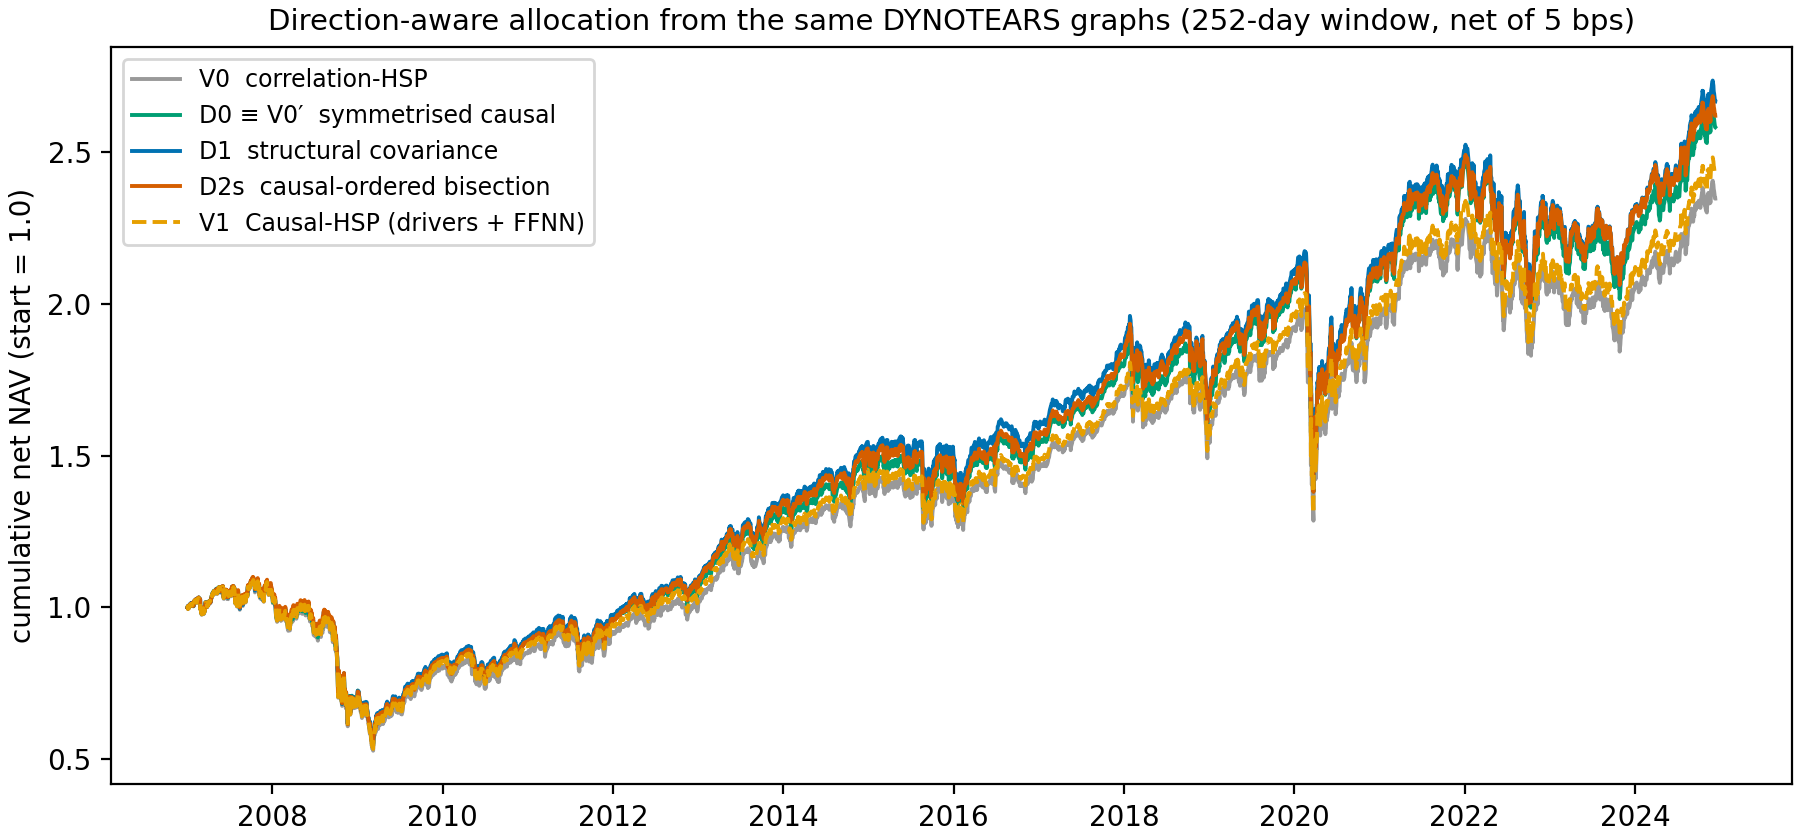
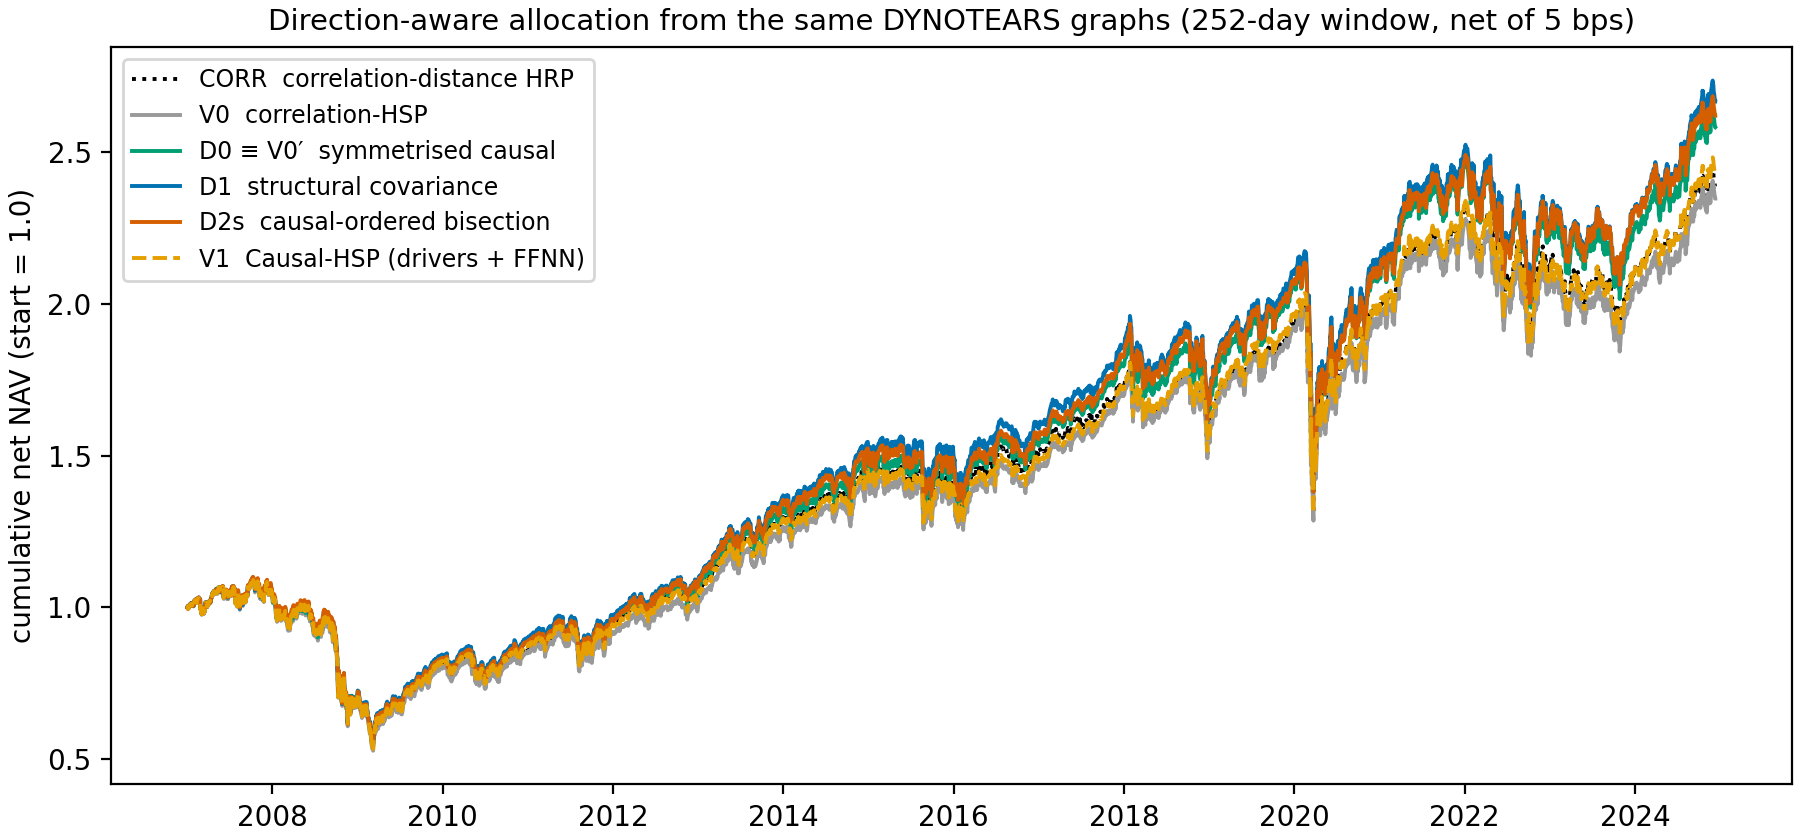
data(results): CORR-HRP cells + decomposition reading; FINDINGS addendum
CORR-HRP lands at net Sharpe 0.381 (w252) / 0.363 (w504) — notably, plain
correlation-distance HRP beats the cum-corr HSP baseline V0 (0.371), so
the earlier D0-V0 significance was substantially a verdict on V0's
driver/FFNN machinery rather than on the correlation matrix. Against the
honest control the decomposition reads: w252 skeleton +0.022 (p=0.14),
orientation +0.009 on top (p=0.47); w504 skeleton +0.009 (p=0.55),
orientation +0.023-0.027 (p=0.05-0.07); all 12 D-vs-CORR contrasts
positive, none individually significant, family-wise SPA p=0.123/0.094.
Refreshed contrasts/matrix/battery CSVs, regime tables with the CORR row,
the new decomposition figure, and the FINDINGS 1d addendum recording all
of it.

diff --git a/FINDINGS.md b/FINDINGS.md
@@ -377,10 +377,33 @@ byte-identical), and D0/D1/D2s all sit *above the seed-cloud maximum*
 under any seed (`results/seed_audit.csv`,
 `results/figures/phase_ii_seed.png`).
 
+**Addendum (2026-07-13) — the CORR-HRP control and the decomposition
+reading.** For the final report's master question ("how much of the causal
+graph's gain over the correlation matrix is skeleton vs edge orientation?")
+the like-for-like control is plain correlation-distance HRP (`CORR`,
+`corr_hrp_weights`: distance √(½(1−ρ)), same allocator, graph-blind;
+pre-registered as an optional comparator in §2-E1). Results
+(`phase_ii_corr_hrp_w{252,504}`): **net Sharpe 0.381 / 0.363** — notably,
+plain HRP *beats* the cum-corr HSP baseline V0 (0.371) at w252, i.e. the HSP
+driver/FFNN machinery subtracts value relative to textbook HRP. Against this
+stronger control the decomposition reads: **w252 — skeleton +0.022 (p=0.14),
+orientation +0.009 on top (p=0.47); w504 — skeleton +0.009 (p=0.55),
+orientation +0.023–0.027 on top (p=0.05–0.07)**. All 12 D-vs-CORR contrasts
+are positive (consistent direction) but none is pairwise-significant, and the
+family-wise R1 test (SPA, causal-structure variants vs CORR) gives **p=0.123
+(w252) / 0.094 (w504)** — the causal graph's improvement over the pure
+correlation matrix is directionally consistent at both windows but does not
+survive data-snooping correction. The earlier D0−V0 significance (p<0.001)
+was therefore substantially a statement about V0's machinery, not about the
+correlation matrix per se. Unified battery: n_trials = 84 (+CORR ×2); the
+joint 90% MCS over 22 w252 strategies keeps 21, excluding only V0; report
+macros are now owned by `robust_stats --phase-ii` (the 41-trial default mode
+no longer writes them).
+
 **Artefacts.** `results/phase_ii_matrix.csv`, `phase_ii_contrasts.csv`,
 `robust_stats_phase_ii.csv`, `seed_audit.csv`, `phase_ii_dag_diagnostics.csv`,
 regime tables (extended), figures `results/figures/phase_ii_{heatmap,forest,
-nav,seed,regime}.png`. Compute: the whole phase ran in ~1 afternoon on the
+nav,seed,regime,decomposition}.png`. Compute: the whole phase ran in ~1 afternoon on the
 warm discovery cache (each 215-rebalance D-variant backtest ≈ 40 s; the naïve
 estimate without the cache was ~15 h/run). DAG diagnostics: DYNOTEARS
 asset-graphs average ~625 edges (density 0.064) with DAG depth ~50 of 99 —

diff --git a/results/figures/CAPTIONS.md b/results/figures/CAPTIONS.md
@@ -72,6 +72,40 @@ what survives the search-corrected test is causal structure, not the
 driver-selection mechanism. Values from `results/robust_stats.csv`
 (`scripts/robust_stats.py`).*
 
+## Phase-II figure set (`results/figures/phase_ii_*.png`)
+
+**phase_ii_decomposition.png** — *The master-question decomposition (DYNOTEARS,
+net Sharpe). At the 252-day window the causal graph's gain over the plain
+correlation-distance HRP control (CORR, 0.381) is carried by the skeleton
+(D0 +0.022, p=0.14); orientation adds little on top (D1 +0.009, p=0.47). At the
+504-day window the pattern inverts: the skeleton's gain shrinks to +0.009
+(p=0.55) and orientation contributes the larger share (D1 +0.023, p=0.05;
+D2s +0.027, p=0.07). No single step is family-wise significant.*
+
+**phase_ii_heatmap.png** — *Net Sharpe by discovery method × allocator at both
+windows, with the symmetrised control D0 boxed. The DYNOTEARS direction-aware
+cells (D1, D2s) are the only ones strong at both windows; under VARLiNGAM the
+direction effect is absent; GRANGER supports ordering (D2) but not the
+structural covariance (D1/D3).*
+
+**phase_ii_forest.png** — *The fixed-graph direction effect: ΔSharpe of each
+direction-aware allocator vs its own symmetrised control D0, Politis–Romano 95%
+CIs. All five DYNOTEARS contrasts positive at w504 (D1 starred, pairwise
+p=0.049); ≈0 at w252 and under VARLiNGAM.*
+
+**phase_ii_nav.png** — *Cumulative net NAV (w252, 5 bps one-way): the
+correlation-distance HRP control, correlation-HSP (V0), the causal skeleton
+(D0 ≡ V0′), the direction-aware D1 and D2s, and driver-based Causal-HSP (V1).*
+
+**phase_ii_seed.png** — *The FFNN-seed audit: V1's net Sharpe across 20 seeds
+(0.375–0.396; the committed value sits at the 5th percentile of its own seed
+distribution) vs the deterministic, seed-free D-variants, all of which sit above
+the seed-cloud maximum.*
+
+**phase_ii_regime.png** — *Regime-conditional Sharpe excess over V0 (w252): the
+direction-aware edge concentrates in the VIX bottom quintile (calm markets),
+not in stress — the stress hypothesis is rejected.*
+
 ## Corrected interim-report figures (`interim_report/figures_corrected/`)
 
 These are the frozen-EEM corrections of the two submitted interim figures (the
